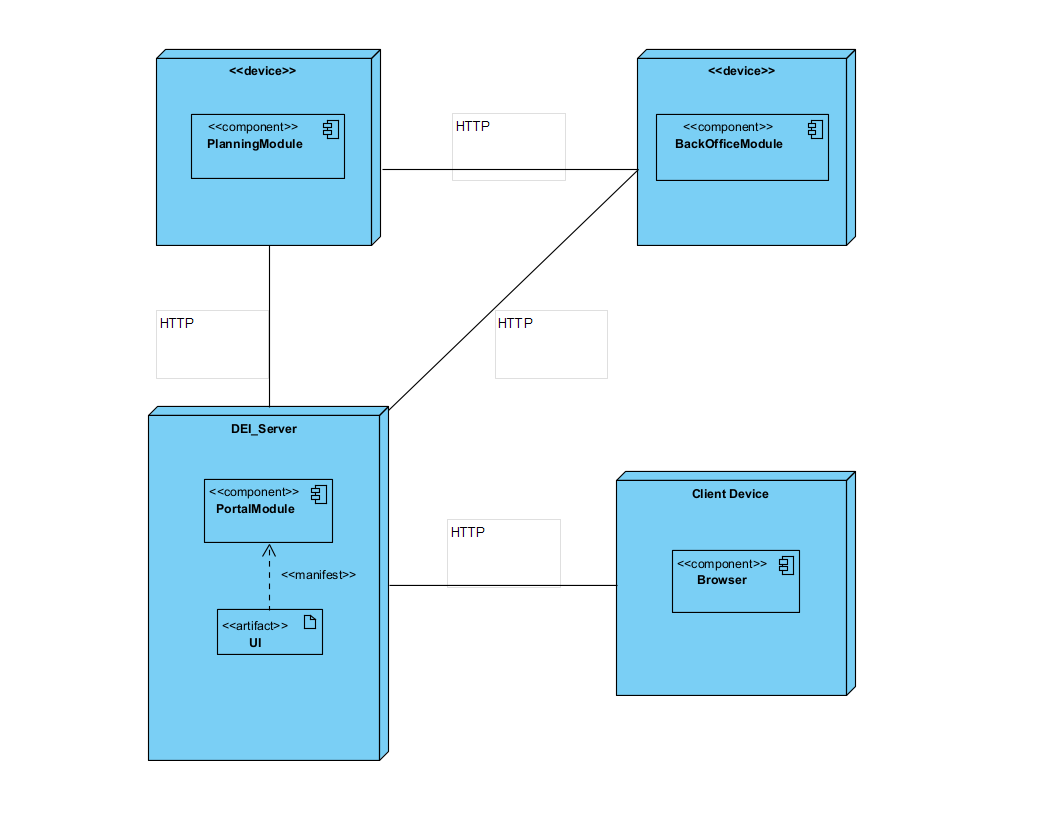
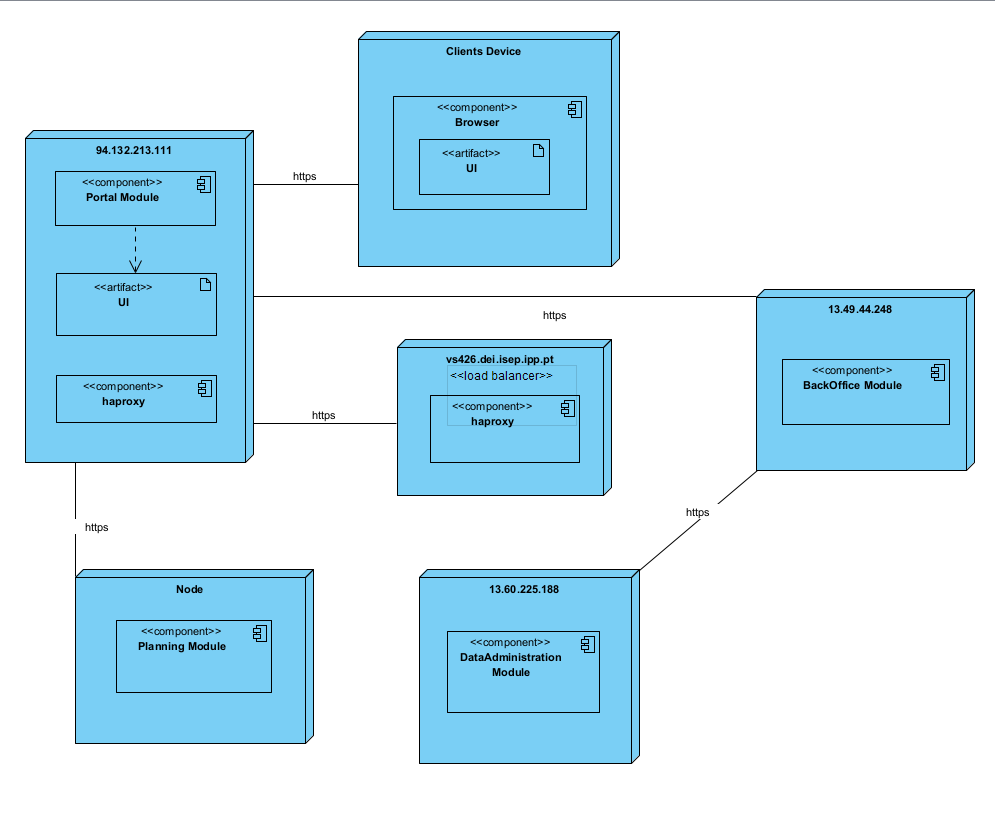
physical view added and readme eddited

diff --git a/SprintC/README.md b/SprintC/README.md
@@ -107,7 +107,7 @@ By combining the two models, it is possible to represent the system from various
 
 
 ## **Deployment View**
-![Deployment View Level 2](Level2/DeploymentView.jpg)
+![Deployment View Level 2](Level2/DeploymentView.PNG)
 
 
 ## **Physical View**
@@ -145,8 +145,16 @@ By combining the two models, it is possible to represent the system from various
 ![Logical View Level 3](Level3/DA/LogicalViewDA.PNG)
 
 
+## **Deployment View Data Administration Module**
+![Deployment View Level 3](Level3/DA/DeploymentViewDA.png)
+
+
 ## **Logical View SPA**
 ![Logical View Level 3](Level3/SPA/LogicalViewSPA.PNG)
+
+
+## **Deployment View SPA**
+![Deployment View Level 3](Level3/SPA/DeploymentViewSPA.png)
 
 
 ## **Logical View Planning Module**
